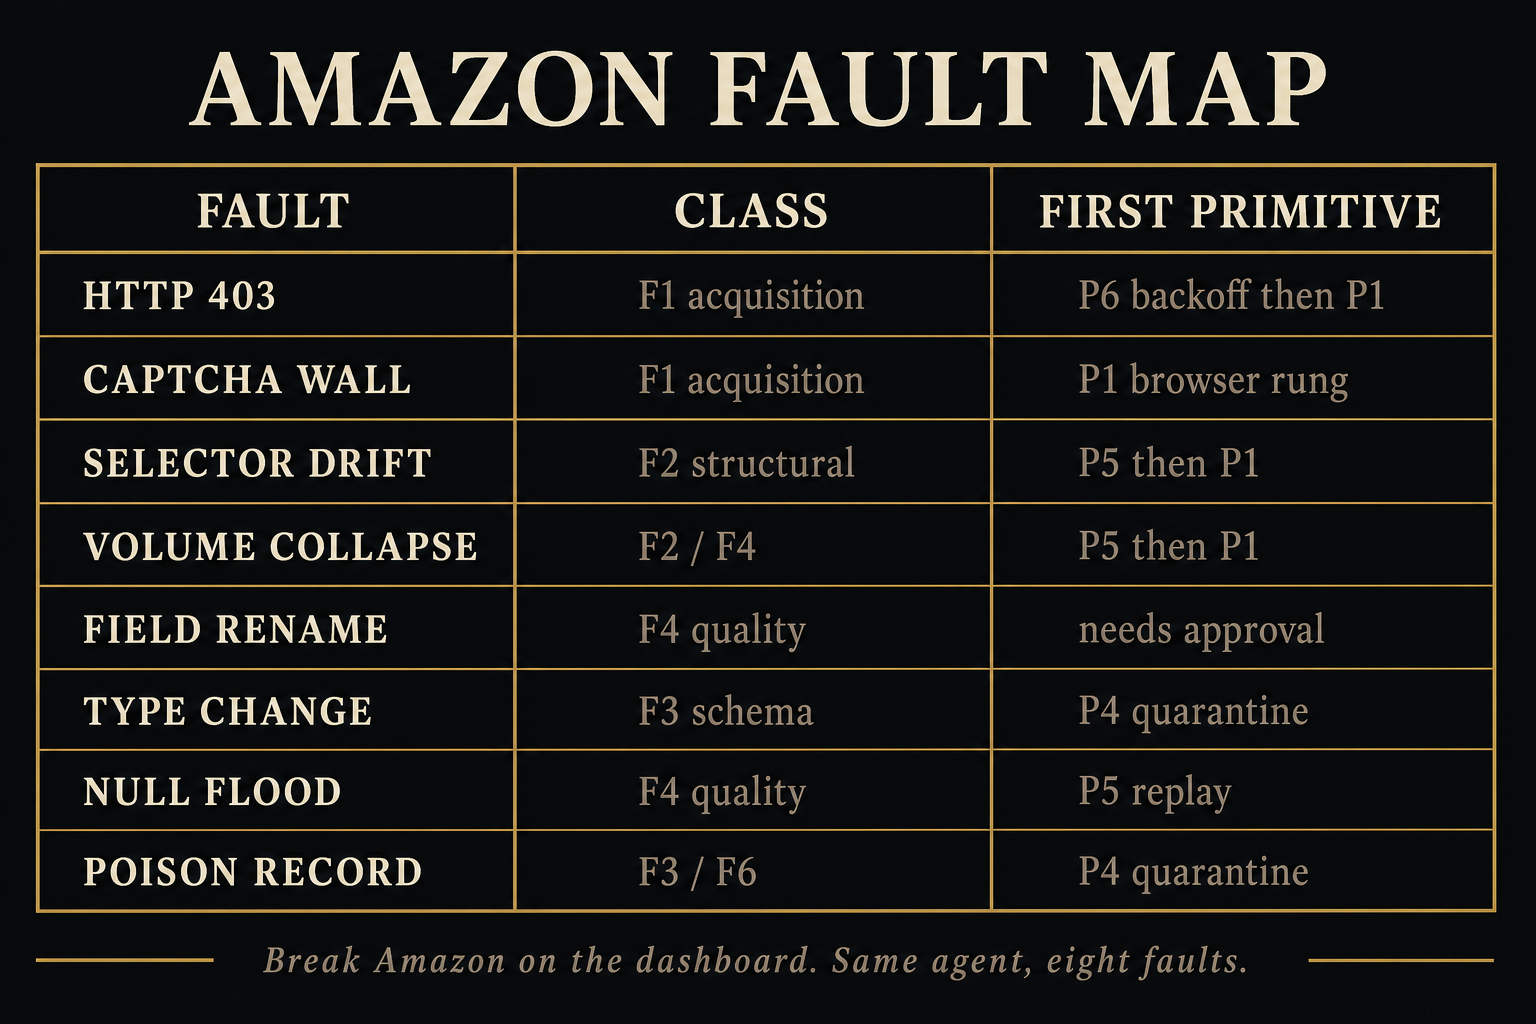
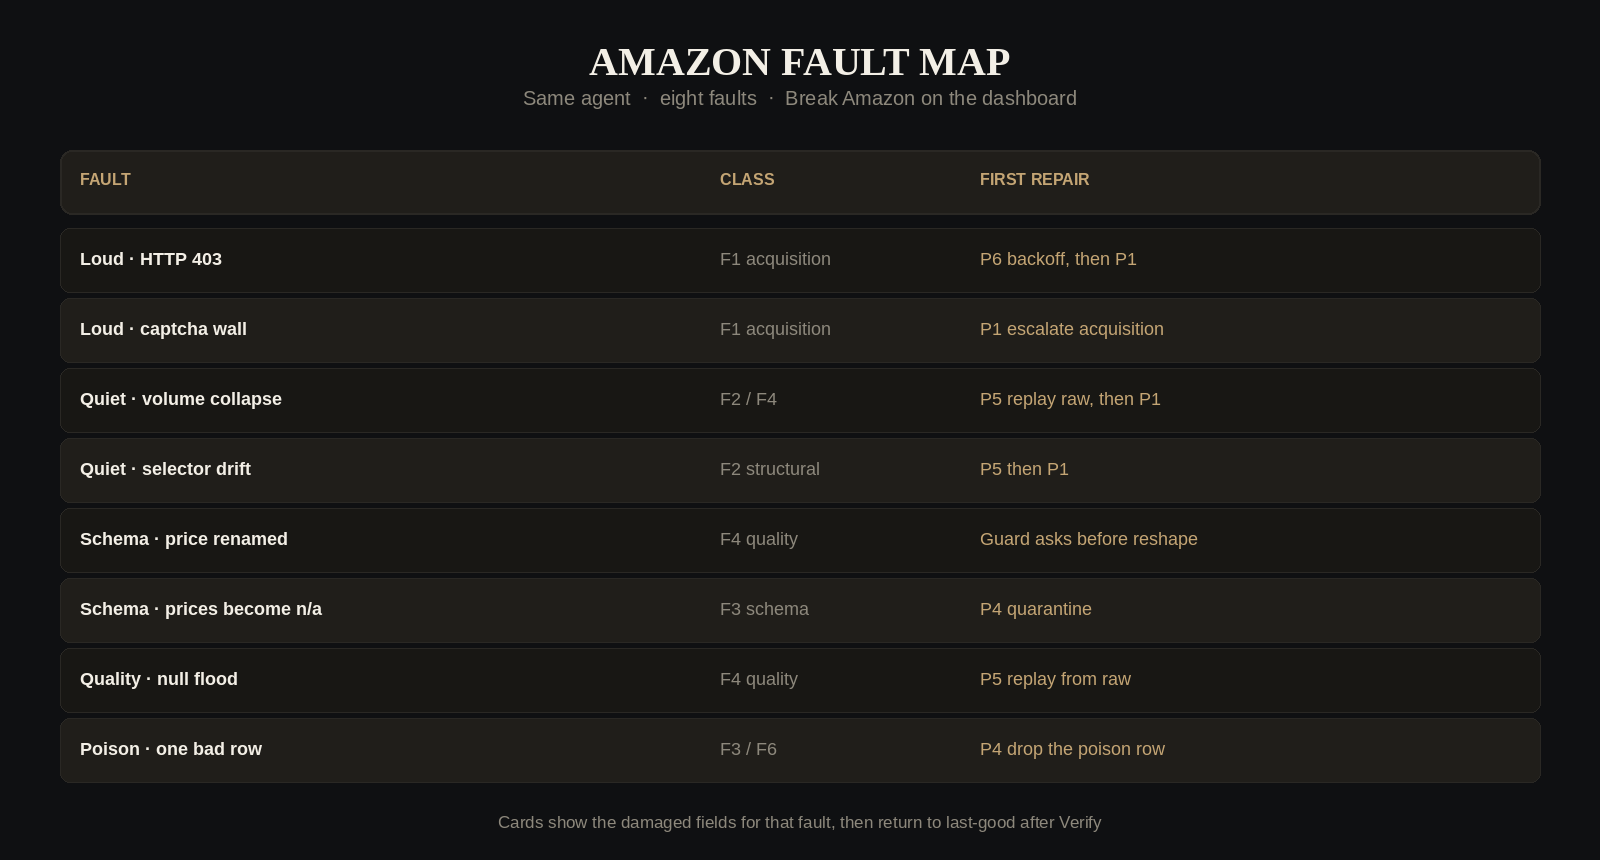
Add README architecture images next to the mermaid diagrams.

Changed region(s): [[0.0, 0.1512, 1.0, 0.9674], [0.125, 0.0302, 0.875, 0.1209]]

diff --git a/scripts/render_architecture.py b/scripts/render_architecture.py
@@ -1,0 +1,318 @@
+#!/usr/bin/env python3
+"""Render HYDRA architecture PNGs for the README."""
+
+from __future__ import annotations
+
+from pathlib import Path
+
+from PIL import Image, ImageDraw, ImageFont
+
+ROOT = Path(__file__).resolve().parents[1]
+OUT = ROOT / "docs" / "architecture"
+
+BG = (15, 16, 18)
+INK = (243, 239, 230)
+MUTED = (141, 136, 124)
+LINE = (42, 40, 36)
+PANEL = (24, 23, 20)
+PANEL2 = (32, 30, 26)
+ACCENT = (196, 165, 116)
+OK = (125, 174, 122)
+BAD = (196, 107, 99)
+WARN = (214, 176, 74)
+
+SERIF = "/usr/share/fonts/truetype/liberation/LiberationSerif-Bold.ttf"
+SANS = "/usr/share/fonts/truetype/liberation/LiberationSans-Regular.ttf"
+SANS_B = "/usr/share/fonts/truetype/liberation/LiberationSans-Bold.ttf"
+MONO = "/usr/share/fonts/truetype/dejavu/DejaVuSansMono.ttf"
+
+
+def font(path: str, size: int) -> ImageFont.FreeTypeFont:
+    return ImageFont.truetype(path, size)
+
+
+def rr(draw: ImageDraw.ImageDraw, box, fill, outline=None, width=2, radius=14):
+    draw.rounded_rectangle(box, radius=radius, fill=fill, outline=outline, width=width)
+
+
+def center(draw, xy, text, fnt, fill=INK):
+    x, y = xy
+    bbox = draw.textbbox((0, 0), text, font=fnt)
+    w, h = bbox[2] - bbox[0], bbox[3] - bbox[1]
+    draw.text((x - w / 2, y - h / 2), text, font=fnt, fill=fill)
+
+
+def text(draw, xy, value, fnt, fill=INK):
+    draw.text(xy, value, font=fnt, fill=fill)
+
+
+def arrow_right(draw, x1, y, x2, color=ACCENT, head=12):
+    draw.line((x1, y, x2 - 2, y), fill=color, width=3)
+    draw.polygon([(x2, y), (x2 - head, y - 7), (x2 - head, y + 7)], fill=color)
+
+
+def arrow_down(draw, x, y1, y2, color=ACCENT, head=12):
+    draw.line((x, y1, x, y2 - 2), fill=color, width=3)
+    draw.polygon([(x, y2), (x - 7, y2 - head), (x + 7, y2 - head)], fill=color)
+
+
+def card(draw, box, title, lines, *, stroke=ACCENT, badge=None, badge_fill=ACCENT):
+    x0, y0, x1, y1 = box
+    rr(draw, box, PANEL, stroke, width=2, radius=16)
+    if badge:
+        bx0, by0 = x0 + 18, y0 + 16
+        rr(draw, (bx0, by0, bx0 + 44, by0 + 26), badge_fill, badge_fill, radius=8)
+        center(draw, (bx0 + 22, by0 + 13), badge, font(SANS_B, 13), BG)
+        text(draw, (bx0 + 56, y0 + 18), title, font(SANS_B, 20), INK)
+    else:
+        text(draw, (x0 + 20, y0 + 18), title, font(SANS_B, 20), INK)
+    yy = y0 + (56 if badge else 50)
+    for line in lines:
+        text(draw, (x0 + 20, yy), line, font(SANS, 16), MUTED)
+        yy += 24
+
+
+def save(img: Image.Image, name: str) -> None:
+    OUT.mkdir(parents=True, exist_ok=True)
+    path = OUT / name
+    img.save(path, "PNG", optimize=True)
+    print(f"wrote {path} ({path.stat().st_size} bytes)")
+
+
+def render_system() -> None:
+    w, h = 1600, 1180
+    img = Image.new("RGB", (w, h), BG)
+    d = ImageDraw.Draw(img)
+
+    center(d, (w / 2, 56), "HYDRA SYSTEM", font(SERIF, 42), INK)
+    center(
+        d,
+        (w / 2, 100),
+        "Amazon catalog  ·  last-good stays up when a scrape fails",
+        font(SANS, 20),
+        MUTED,
+    )
+
+    # Inputs
+    y = 150
+    inputs = [
+        (80, "AMAZON URLS", ["Product pages to scrape", "asin + title required"]),
+        (560, "CONTRACT", ["amazon_products", "Quality floor: 5 products"]),
+        (1040, "BRIGHT DATA", ["Dataset gd_l7q7dkf244hwjntr0", "Live key optional"]),
+    ]
+    for x, title, lines in inputs:
+        card(d, (x, y, x + 480, y + 140), title, lines)
+
+    for x in (320, 800, 1280):
+        arrow_down(d, x, 298, 348)
+
+    # Mode
+    y = 356
+    card(d, (80, y, 760, y + 130), "REPLAY", ["fixtures/amazon_products.json", "HYDRA_MODE=replay  ·  no API key"])
+    card(d, (840, y, 1520, y + 130), "LIVE SCRAPE", ["Bright Data unlocker / dataset", "Isolated on :8081 so replay stays intact"])
+    arrow_down(d, 420, 494, 544)
+    arrow_down(d, 1180, 494, 544)
+    d.line((420, 544, 1180, 544), fill=ACCENT, width=3)
+    arrow_down(d, 800, 544, 594)
+
+    # Pipeline
+    y = 602
+    rr(d, (80, y, 1520, y + 210), PANEL2, ACCENT, width=2, radius=18)
+    text(d, (104, y + 18), "HYDRA PIPELINE", font(SANS_B, 18), ACCENT)
+    text(d, (104, y + 46), "Acquire, parse, validate, then promote. Raw never writes the serving catalog.", font(SANS, 16), MUTED)
+    stages = [
+        ("01", "ACQUIRE", "Fetch or replay"),
+        ("02", "PARSE", "Rows + types"),
+        ("03", "VALIDATE", "Contract checks"),
+        ("04", "LOAD", "Atomic promote"),
+        ("05", "DERIVE", "Health + cards"),
+    ]
+    gap = 24
+    box_w = 248
+    x = 110
+    for i, (num, title, sub) in enumerate(stages):
+        card(d, (x, y + 82, x + box_w, y + 190), title, [sub], badge=num)
+        if i < len(stages) - 1:
+            arrow_right(d, x + box_w + 2, y + 136, x + box_w + gap - 2)
+        x += box_w + gap
+
+    arrow_down(d, 800, 820, 870)
+
+    # Serving + ledgers
+    y = 878
+    card(
+        d,
+        (80, y, 760, y + 168),
+        "LAST-GOOD CATALOG",
+        ["data/hydra-live.json", "Keep products_good when products_now is bad", "Served on the dashboard"],
+        stroke=OK,
+    )
+    card(
+        d,
+        (840, y, 1520, y + 168),
+        "DASHBOARD",
+        ["Vercel production + local :8080", "Break Amazon  ·  Detect → Verify", "Cards show what broke, then what healed"],
+        stroke=ACCENT,
+    )
+
+    y = 1070
+    for x, title in ((80, "PORT LEDGER"), (560, "DUCKDB LEDGER"), (1040, "SIGNOZ TRACES")):
+        rr(d, (x, y, x + 480, y + 72), PANEL, LINE, width=2, radius=14)
+        center(d, (x + 240, y + 36), title, font(SANS_B, 18), MUTED)
+
+    save(img, "hydra-architecture-system.png")
+
+
+def render_heal() -> None:
+    w, h = 1600, 720
+    img = Image.new("RGB", (w, h), BG)
+    d = ImageDraw.Draw(img)
+
+    center(d, (w / 2, 52), "CLOSED-LOOP HEAL", font(SERIF, 40), INK)
+    center(
+        d,
+        (w / 2, 96),
+        "A repair counts only if the same check that failed, passes afterward",
+        font(SANS, 20),
+        MUTED,
+    )
+
+    stages = [
+        ("01", "DETECT", "Failed scrape opens\nan incident (MTTD)", WARN),
+        ("02", "CLASSIFY", "Map telemetry to\nfailure class F1–F6", ACCENT),
+        ("03", "GUARD", "Budget, circuit,\napproval tier", ACCENT),
+        ("04", "ACT", "Run one primitive\nP1–P8", ACCENT),
+        ("05", "VERIFY", "Re-run the same\nassertion", OK),
+    ]
+    box_w, box_h = 252, 250
+    gap = 36
+    total = 5 * box_w + 4 * gap
+    x = (w - total) / 2
+    y = 160
+    for i, (num, title, body, color) in enumerate(stages):
+        rr(d, (x, y, x + box_w, y + box_h), PANEL, color, width=3, radius=18)
+        rr(d, (x + 18, y + 18, x + 70, y + 52), color, color, radius=8)
+        center(d, (x + 44, y + 35), num, font(SANS_B, 16), BG)
+        text(d, (x + 20, y + 72), title, font(SANS_B, 24), INK)
+        yy = y + 118
+        for line in body.split("\n"):
+            text(d, (x + 20, yy), line, font(SANS, 17), MUTED)
+            yy += 26
+        if i < len(stages) - 1:
+            arrow_right(d, x + box_w + 2, y + box_h / 2, x + box_w + gap - 2, color)
+        x += box_w + gap
+
+    # return path
+    d.line((1348, 410, 1348, 560, 252, 560, 252, 410), fill=OK, width=3)
+    d.polygon([(252, 410), (245, 424), (259, 424)], fill=OK)
+    center(d, (w / 2, 600), "Verify fails → open another incident     ·     Verify passes → catalog is healthy", font(SANS, 18), MUTED)
+    center(d, (w / 2, 668), "Stages on the dashboard: idle  ·  yellow in progress  ·  red when broken  ·  green when done", font(SANS, 16), MUTED)
+
+    save(img, "hydra-architecture-heal-loop.png")
+
+
+def render_last_good() -> None:
+    w, h = 1600, 820
+    img = Image.new("RGB", (w, h), BG)
+    d = ImageDraw.Draw(img)
+
+    center(d, (w / 2, 52), "LAST-GOOD CATALOG", font(SERIF, 40), INK)
+    center(
+        d,
+        (w / 2, 96),
+        "Bright Data and the fixture never overwrite the serving document",
+        font(SANS, 20),
+        MUTED,
+    )
+
+    y = 160
+    steps = [
+        ("1", "RAW RUN", ["data/raw/run-<id>.json", "CLI output stays here"]),
+        ("2", "NORMALIZE + VALIDATE", ["Contract amazon_products", "asin, title, quality floor"]),
+        ("3", "ATOMIC PROMOTE", ["Write a temp file, then replace", "Only a valid document is published"]),
+    ]
+    x = 70
+    for i, (num, title, lines) in enumerate(steps):
+        card(d, (x, y, x + 460, y + 180), title, lines, badge=num)
+        if i < 2:
+            arrow_right(d, x + 466, y + 90, x + 510)
+        x += 500
+
+    # fork
+    arrow_down(d, 1280, 348, 410)
+    d.line((420, 410, 1280, 410), fill=ACCENT, width=3)
+
+    card(
+        d,
+        (80, 430, 760, 640),
+        "OK — SERVE LAST-GOOD",
+        ["data/hydra-live.json", "products_good becomes the catalog", "Dashboard cards stay complete"],
+        stroke=OK,
+        badge="UP",
+        badge_fill=OK,
+    )
+    card(
+        d,
+        (840, 430, 1520, 640),
+        "FAIL — HOLD THIS SCRAPE",
+        ["products_now is rejected", "Last-good stays on screen", "Heal loop starts on the dashboard"],
+        stroke=BAD,
+        badge="HOLD",
+        badge_fill=BAD,
+    )
+
+    rr(d, (80, 680, 1520, 776), (36, 22, 20), BAD, width=2, radius=16)
+    center(d, (w / 2, 716), "NEVER WRITE RAW TO LATEST", font(SANS_B, 22), BAD)
+    center(
+        d,
+        (w / 2, 750),
+        "data/latest.json and data/hydra-live.json accept only a schema-valid, quality-gated document",
+        font(SANS, 17),
+        MUTED,
+    )
+
+    save(img, "hydra-architecture-last-good.png")
+
+
+def render_fault_map() -> None:
+    w, h = 1600, 860
+    img = Image.new("RGB", (w, h), BG)
+    d = ImageDraw.Draw(img)
+
+    center(d, (w / 2, 52), "AMAZON FAULT MAP", font(SERIF, 40), INK)
+    center(d, (w / 2, 96), "Same agent  ·  eight faults  ·  Break Amazon on the dashboard", font(SANS, 20), MUTED)
+
+    headers = [("FAULT", 80, 620), ("CLASS", 720, 240), ("FIRST REPAIR", 980, 540)]
+    y = 150
+    rr(d, (60, y, 1540, y + 64), PANEL2, LINE, width=2, radius=12)
+    for label, x, _w in headers:
+        text(d, (x, y + 20), label, font(SANS_B, 16), ACCENT)
+
+    rows = [
+        ("Loud · HTTP 403", "F1 acquisition", "P6 backoff, then P1"),
+        ("Loud · captcha wall", "F1 acquisition", "P1 escalate acquisition"),
+        ("Quiet · volume collapse", "F2 / F4", "P5 replay raw, then P1"),
+        ("Quiet · selector drift", "F2 structural", "P5 then P1"),
+        ("Schema · price renamed", "F4 quality", "Guard asks before reshape"),
+        ("Schema · prices become n/a", "F3 schema", "P4 quarantine"),
+        ("Quality · null flood", "F4 quality", "P5 replay from raw"),
+        ("Poison · one bad row", "F3 / F6", "P4 drop the poison row"),
+    ]
+    y = 228
+    for i, (fault, klass, repair) in enumerate(rows):
+        fill = PANEL if i % 2 == 0 else PANEL2
+        rr(d, (60, y, 1540, y + 64), fill, LINE, width=1, radius=10)
+        text(d, (80, y + 20), fault, font(SANS_B, 18), INK)
+        text(d, (720, y + 20), klass, font(SANS, 18), MUTED)
+        text(d, (980, y + 20), repair, font(SANS, 18), ACCENT)
+        y += 70
+
+    center(d, (w / 2, 820), "Cards show the damaged fields for that fault, then return to last-good after Verify", font(SANS, 17), MUTED)
+    save(img, "hydra-architecture-fault-map.png")
+
+
+if __name__ == "__main__":
+    render_system()
+    render_heal()
+    render_last_good()
+    render_fault_map()

diff --git a/README.md b/README.md
@@ -39,15 +39,38 @@ The dashboard shows real Amazon rows (ASIN, title, price, availability). Replay 
 
 ## Architecture
 
-HYDRA never writes a raw scrape onto the catalog the page serves. Acquire, parse, validate, then promote. If the scrape fails, cards stay on last-good.
+Raw scrape output never lands on the catalog the dashboard serves. Acquire, parse, validate, then promote. If a scrape fails, the last-good catalog stays up.
 
 ![HYDRA system architecture](docs/architecture/hydra-architecture-system.png)
+
+```mermaid
+flowchart TB
+  urls[Amazon product URLs] --> mode{Replay or live}
+  contract[Contract · amazon_products] --> mode
+  dataset[Bright Data dataset] --> mode
+  mode -->|replay| pipe
+  mode -->|live| pipe
+  subgraph pipe [HYDRA pipeline]
+    direction LR
+    acquire[Acquire] --> parse[Parse] --> validate[Validate] --> load[Load]
+  end
+  pipe -->|ok| catalog[Last-good catalog]
+  pipe -->|fail| catalog
+  catalog --> dash[Dashboard]
+  pipe -.-> ledgers[Port · DuckDB · SigNoz]
+```
 
 ### Closed-loop heal
 
 A repair counts only if the same check that failed, passes afterward.
 
-![Detect, classify, guard, act, verify](docs/architecture/hydra-architecture-heal-loop.png)
+![Closed-loop heal](docs/architecture/hydra-architecture-heal-loop.png)
+
+```mermaid
+flowchart LR
+  detect[01 Detect] --> classify[02 Classify] --> guard[03 Guard] --> act[04 Act] --> verify[05 Verify]
+  verify -.->|same assertion must pass| detect
+```
 
 | Step | What the dashboard shows |
 |---|---|
@@ -59,9 +82,17 @@ A repair counts only if the same check that failed, passes afterward.
 
 ### Last-good catalog
 
-Bright Data (or the fixture) never overwrites the serving document. Raw goes to `data/raw/`. The dashboard reads `data/hydra-live.json` and keeps `products_good` when `products_now` is bad.
+The dashboard reads `data/hydra-live.json`. It keeps `products_good` when `products_now` is bad. Raw runs stay in `data/raw/`.
 
-![Last-good catalog path](docs/architecture/hydra-architecture-last-good.png)
+![Last-good catalog](docs/architecture/hydra-architecture-last-good.png)
+
+```mermaid
+flowchart LR
+  raw[1 Raw run] --> check[2 Normalize and validate]
+  check --> promote[3 Atomic promote]
+  promote -->|ok| served[Last-good on the dashboard]
+  promote -->|fail| held[This scrape held back]
+```
 
 ---
 
